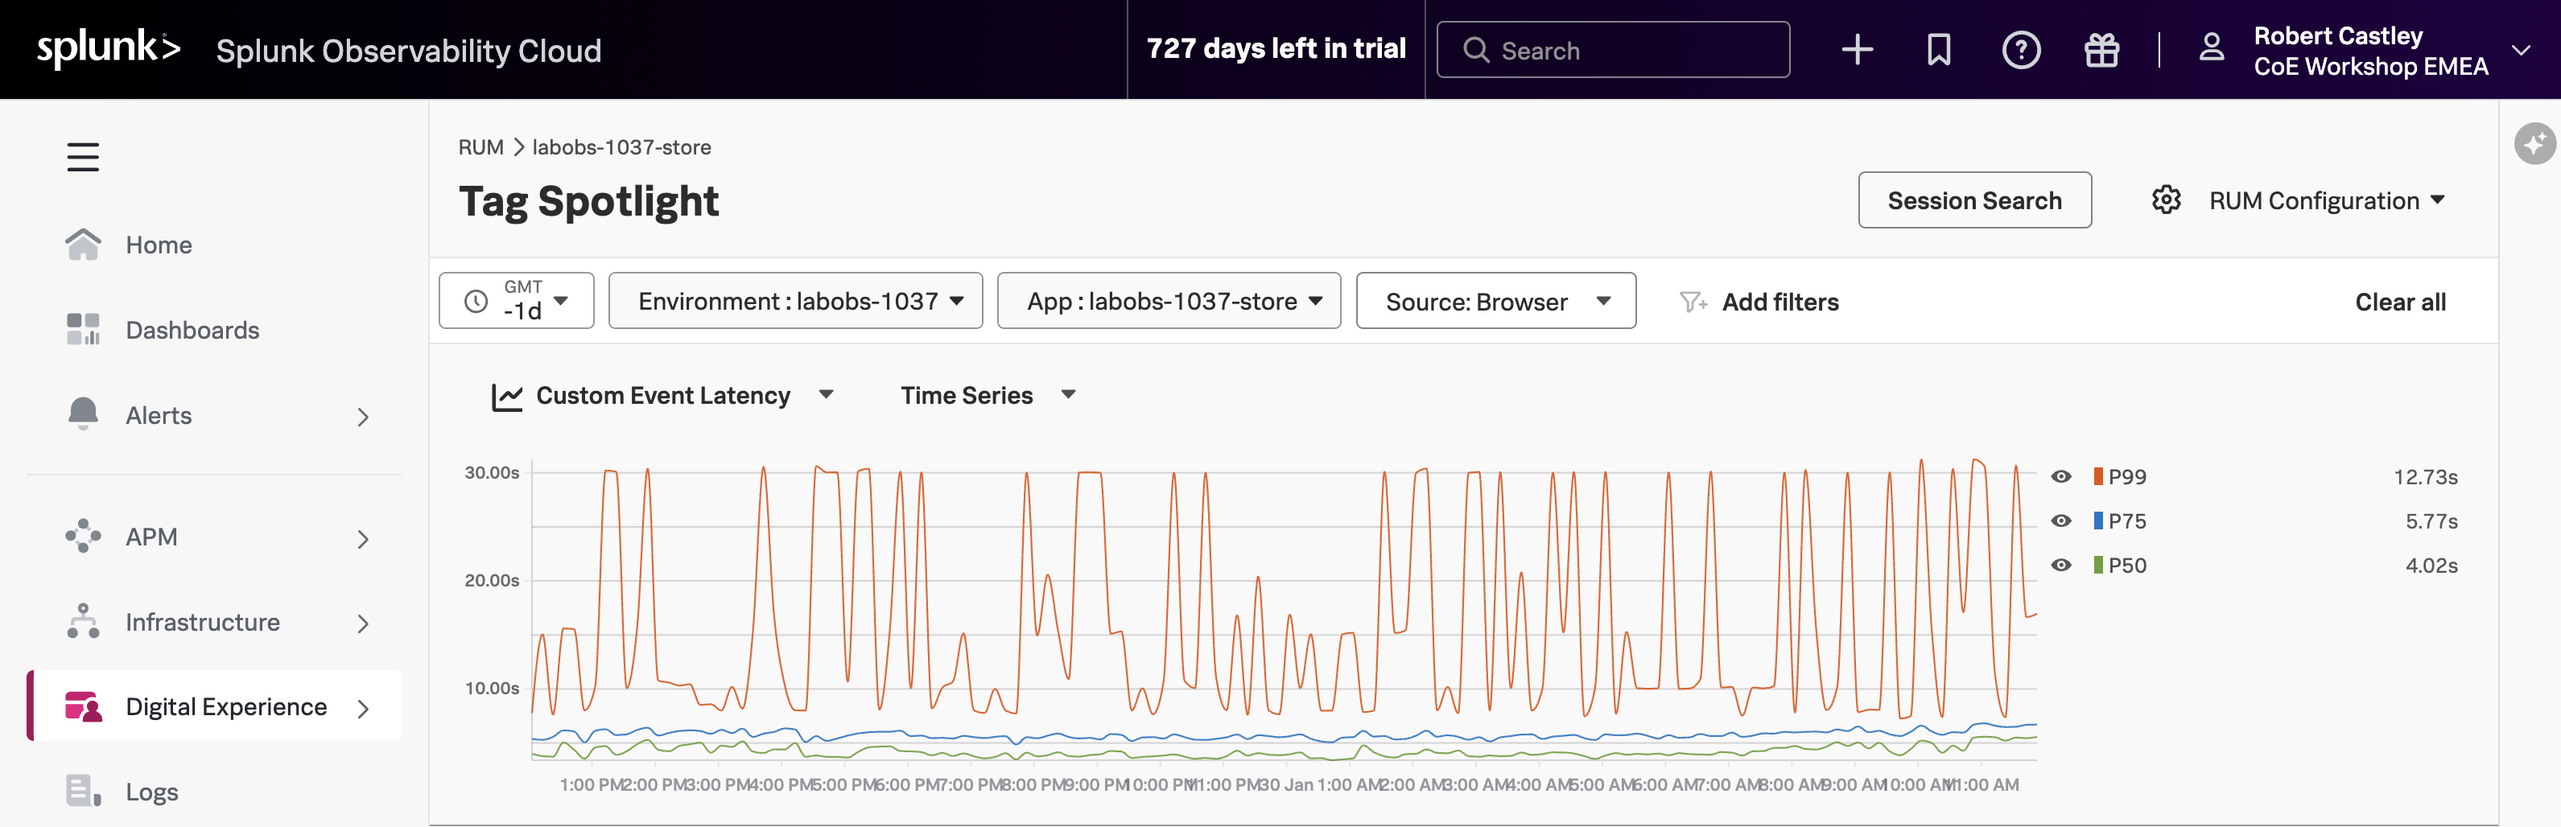
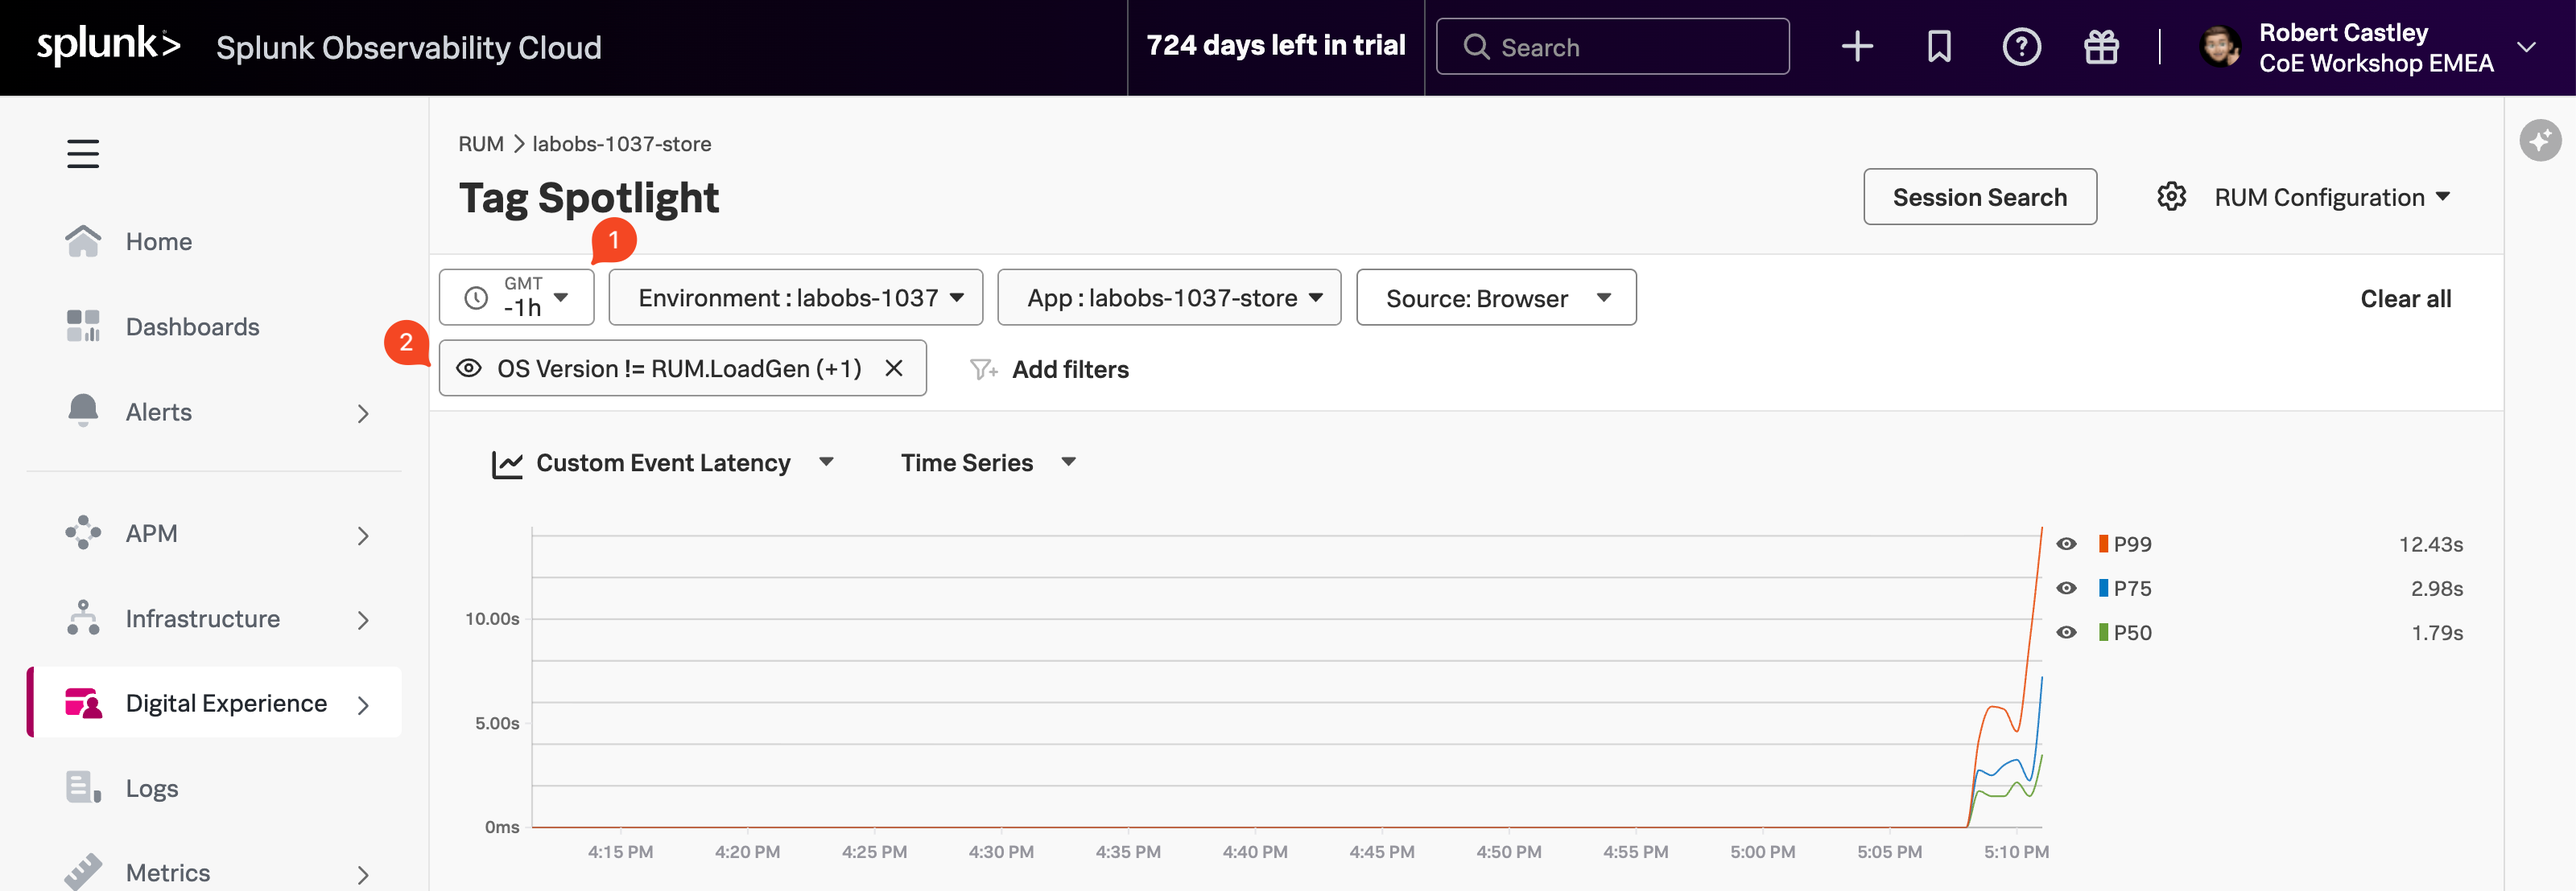
GH fixes/tweaks

diff --git a/content/en/splunk4rookies/WIL - Cisco Live/4-apm/5-apm-trace-analyzer.md b/content/en/splunk4rookies/WIL - Cisco Live/4-apm/5-apm-trace-analyzer.md
@@ -1,0 +1,29 @@
+---
+title: 5. APM Trace Analyzer
+weight: 5
+---
+
+We have arrived at the **Trace Analyzer**.
+
+**Trace Analyzer** is a powerful tool in Splunk APM designed for exploring and analyzing distributed traces at scale. Because Splunk APM captures every trace with full-fidelity (NoSample), you have complete visibility into all transactions flowing through your services.
+
+Trace Analyzer enables you to:
+
+* **Search with high-cardinality tags**: Filter traces using any indexed span tag, such as customer IDs, order IDs, or custom business attributes.
+* **Visualize trace patterns**: View trace and error counts over time to identify trends and anomalies.
+* **Analyze latency distribution**: Use the heatmap view to understand trace duration patterns and spot outliers.
+* **Drill down to specific traces**: Quickly find the exact trace you need, whether investigating a customer complaint or debugging a specific transaction.
+
+This makes Trace Analyzer ideal for investigating unknown issues, researching specific transactions, and performing root cause analysis when you need to find a needle in a haystack.
+
+{{% notice title="Exercise" style="green" icon="running" %}}
+
+![APM Trace Analyzer](../images/apm-trace-analyzer.png)
+
+* Find a trace with:
+  * an error in the **checkoutservice** and the **paymentservice** (**1**)
+  * and an **Intiating Operation** of`frontend: POST /cart/checkout`
+  * then select the blue Trace ID (**2**) to continue
+* This will open the **Trace Waterfall** for that specific trace.
+
+{{% /notice %}}

diff --git a/content/en/splunk4rookies/WIL - Cisco Live/3-rum/1-rum-overview.md b/content/en/splunk4rookies/WIL - Cisco Live/3-rum/1-rum-overview.md
@@ -5,11 +5,13 @@ weight: 1
 
 {{% notice title="Exercise" style="green" icon="running" %}}
 
-* In Splunk Observability Cloud from the main menu, click on **Digital Experience**, followed by selecting **Overview** (**1**) from the **Real User Monitoring** section as shown below.
+* In Splunk Observability Cloud, from the main menu, hover over **Digital Experience**, then click on **Overview** (**1**) from the **Real User Monitoring** section as shown below.
 
 ![RUM](../images/rum-de.png)
 
 * This will open up the **Application Summary Dashboard**. This section shows a quick overview of **all** the applications being monitored.
+
+* The Real User Monitoring (RUM) Overview dashboard in Splunk Observability Cloud provides visibility into how real users experience your web applications. It captures browser-side performance metrics, JavaScript errors, and network request failures as they occur in actual user sessions. The dashboard surfaces Core Web Vitals (LCP, INP, CLS) to measure page load performance, displays error trends over time, and shows recent alerts, giving frontend teams the insights needed to identify and resolve issues affecting end-user experience.
 
 * To ensure we are looking at the right data, please check the following settings (**2**):
   * The **Time frame** is set to **-15m**.

diff --git a/content/en/splunk4rookies/WIL - Cisco Live/3-rum/5-rum-to-apm.md b/content/en/splunk4rookies/WIL - Cisco Live/3-rum/5-rum-to-apm.md
@@ -11,6 +11,8 @@ weight: 5
 
 {{% /notice %}}
 
-We have now successfully navigated from RUM into APM, providing us with an end-to-end view of the user experience. This integration allows us to trace performance issues from the front-end all the way through to the back-end services, enabling more effective troubleshooting and optimization of our applications.
+We have now successfully navigated from **RUM** into **APM**, providing an end-to-end view of the user experience. This integration allows us to trace performance issues from the front-end all the way through to the back-end services, enabling more effective troubleshooting and optimization.
 
-Let's ask our friends in the paymentservice team to continue the investigation.
+The RUM metrics initially pointed to the Checkout Service as the source of the problem. Without **APM**, teams could waste valuable time investigating this service unnecessarily. However, with **APM** we can quickly identify that the root cause actually lies in the `paymentservice`, saving valuable time and significantly reducing MTTx.
+
+Let's ask our friends in back-end development to continue the investigation.

diff --git a/content/en/splunk4rookies/WIL - Cisco Live/3-rum/3-tag-spotlight.md b/content/en/splunk4rookies/WIL - Cisco Live/3-rum/3-tag-spotlight.md
@@ -13,8 +13,8 @@ weight: 3
 
 * This dashboard displays all tags associated with the RUM data, key-value pairs automatically generated by the RUM instrumentation. Tags are used to filter data and build charts and tables. The Tag Spotlight view lets you drill down into individual user sessions.
 
-* Change the timeframe to **Last 1 hour**.
-* Click **Add Filters**, select **OS Version**, click **!=** and select **Synthetics** and **RUM.LoadGen** then click the {{% button style="blue" %}}Apply Filter{{% /button %}} button.
+* Change the timeframe to **Last 1 hour** (**1**).
+* Click **Add Filters**, select **OS Version**, click **!=** and select **Synthetics** and **RUM.LoadGen** then click the {{% button style="blue" %}}Apply Filter{{% /button %}} button (**2**).
 * Find the **Custom Event Name** chart, locate **PlaceOrder** in the list, click on it and select **Add to filter**.
 * Click on the **User Sessions** tab.
 * Click on the **Duration** heading twice to sort the sessions by duration (longest at the top).

diff --git a/content/en/splunk4rookies/WIL - Cisco Live/3-rum/4-user-sessions.md b/content/en/splunk4rookies/WIL - Cisco Live/3-rum/4-user-sessions.md
@@ -9,7 +9,7 @@ Sessions are identified by a unique Session ID and include metadata such as brow
 
 {{% notice title="Exercise" style="green" icon="running" %}}
 
-* In the **User Sessions** table, click on the **Session ID** with the longest **Duration** (over 20 seconds or longer). This will take you to the RUM Session view.
+* In the **User Sessions** table, click on the **Session ID** with the longest **Duration** (over 15 seconds or longer). This will take you to the RUM Session view.
 * Note the length of the span—this is the time it took to complete the order. Not good!
 * Scroll down the page and you will see the **Tags** metadata (which is used in Tag Spotlight). After the tags, we come to the waterfall which shows the page objects that have been loaded (HTML, CSS, images, JavaScript, etc.).
 * Keep scrolling down the page until you come to a blue **APM** link (the one with `/cart/checkout` at the end of the URL) and hover over it.

diff --git a/content/en/splunk4rookies/WIL - Cisco Live/4-apm/4-apm-service-breakdown.md b/content/en/splunk4rookies/WIL - Cisco Live/4-apm/4-apm-service-breakdown.md
@@ -1,6 +1,6 @@
 ---
-title: 5. APM Service Breakdown
-weight: 5
+title: 4. APM Service Breakdown
+weight: 4
 ---
 
 {{% notice title="Exercise" style="green" icon="running" %}}
@@ -26,6 +26,6 @@ weight: 5
 Using span tags to break down services is a very powerful feature. It allows you to see how your services are performing for different customers, different versions, different regions, etc. In this exercise, we have determined that `v350.10` of the **paymentservice** is causing problems for all our customers.
 {{% /notice %}}
 
-* Next, we need to drill down into a trace to see what is going on. With the **paymentservice** selected, click on the **Traces** tab in the right-hand pane.
+* Next, we need to drill down into a trace to see what is going on. With the one of the red circles in the **paymentservice** selected, click on the **Traces** tab in the right-hand pane.
 
 {{% /notice %}}

diff --git a/content/en/splunk4rookies/WIL - Cisco Live/4-apm/2-apm-service-view.md b/content/en/splunk4rookies/WIL - Cisco Live/4-apm/2-apm-service-view.md
@@ -13,8 +13,8 @@ As a service owner you can use the service view in Splunk APM to get a complete 
 ![Service Dashboard](../images/apm-service-dashboard.png)
 
 * Check the **Time** box, you can see that the dashboards only show data relevant to the time it took for the APM trace we previously selected to complete (note that the charts are static).
-* In the **Time** box change the timeframe to **-1h**.
+* In the **Time** box change the timeframe to **-1h** (**1**).
 * You can clearly see the **Success rate** is not 100%, this is because we have errors in our service.
-* Now let's go back to the **Service Map**, you can hit the back button in your Browser.
+* We need to understand if there is a pattern to this error rate. We have a handy tool for that, click on the **Tag Spotlight** tab (**2**).
 
 {{% /notice %}}

diff --git a/content/en/splunk4rookies/WIL - Cisco Live/4-apm/1-apm-service-map.md b/content/en/splunk4rookies/WIL - Cisco Live/4-apm/1-apm-service-map.md
@@ -17,6 +17,15 @@ You can see the services involved in the workflow in the **Service Map**. In the
 
 Splunk APM also provides built-in **Service Centric Views** to help you see problems occurring in real time and quickly determine whether the problem is associated with a service, a specific endpoint, or the underlying infrastructure. Let's have a closer look.
 
-* In the right-hand pane, click on **paymentservice** in blue.
+{{< tabs >}}
+{{% tab title="Question" %}}
+**With the `paymentservice` selected, what can you conclude from the Service Requests & Errors chart in the side pane?** (**1**)
+{{% /tab %}}
+{{% tab title="Answer" %}}
+**The Errors percentage is very high.**
+{{% /tab %}}
+{{< /tabs >}}
+
+* In the right-hand pane, click on **paymentservice** in blue (**2**).
 
 {{% /notice %}}

diff --git a/content/en/splunk4rookies/WIL - Cisco Live/4-apm/3-apm-tag-spotlight.md b/content/en/splunk4rookies/WIL - Cisco Live/4-apm/3-apm-tag-spotlight.md
@@ -1,6 +1,6 @@
 ---
-title: 4. APM Tag Spotlight
-weight: 4
+title: 3. APM Tag Spotlight
+weight: 3
 ---
 
 {{% notice title="Exercise" style="green" icon="running" %}}
@@ -21,6 +21,7 @@ weight: 4
 {{% /tab %}}
 {{< /tabs >}}
 
-* Now that we have identified the version of the **paymentservice** that is causing the issue, let's see if we can find out more information about the error. To return to the Service Map, you can hit the back button in your Browser.
-
+* Now that we have identified the version of the **paymentservice** that is causing the issue, let's see if we can find out more information about the error.
+* Click the **APM** link above **paymentservice** to return to the **APM Overview**.
+* In **APM Overview**, click on **Service Map** in the right hand pane.
 {{% /notice %}}

diff --git a/content/en/splunk4rookies/WIL - Cisco Live/2-online-boutique/_index.md b/content/en/splunk4rookies/WIL - Cisco Live/2-online-boutique/_index.md
@@ -19,6 +19,7 @@ You are a **hip urban professional**, longing to buy your next novelty items in 
 * Please visit the famous Online Boutique shop by going to **[https://labobs-1037.splunko11y.com/](https://labobs-1037.splunko11y.com/?target=_blank)**
 * Once you have access to the Online Boutique, have a browse through a few items, add them to your cart and then, finally, do a checkout.
 * Repeat this exercise a few times and if possible use different browsers, mobile devices or tablets as this will generate more data for you to explore.
+* We recommend you do at least 3-5 complete shopping sessions in order to catch the performance issues we have deliberately introduced into the application.
 
 ---
 

diff --git a/content/en/splunk4rookies/WIL - Cisco Live/4-apm/6-apm-waterfall.md b/content/en/splunk4rookies/WIL - Cisco Live/4-apm/6-apm-waterfall.md
@@ -1,6 +1,6 @@
 ---
-title: 7. APM Waterfall
-weight: 7
+title: 6. APM Waterfall
+weight: 6
 ---
 
 A trace is a collection of spans that share the same trace ID, representing a unique transaction handled by your application and its constituent services.

diff --git a/content/en/splunk4rookies/WIL - Cisco Live/4-apm/7-apm-to-logs.md b/content/en/splunk4rookies/WIL - Cisco Live/4-apm/7-apm-to-logs.md
@@ -1,6 +1,6 @@
 ---
-title: 8. APM to Logs
-weight: 8
+title: 7. APM to Logs
+weight: 7
 ---
 
 {{% notice title="Exercise" style="green" icon="running" %}}
